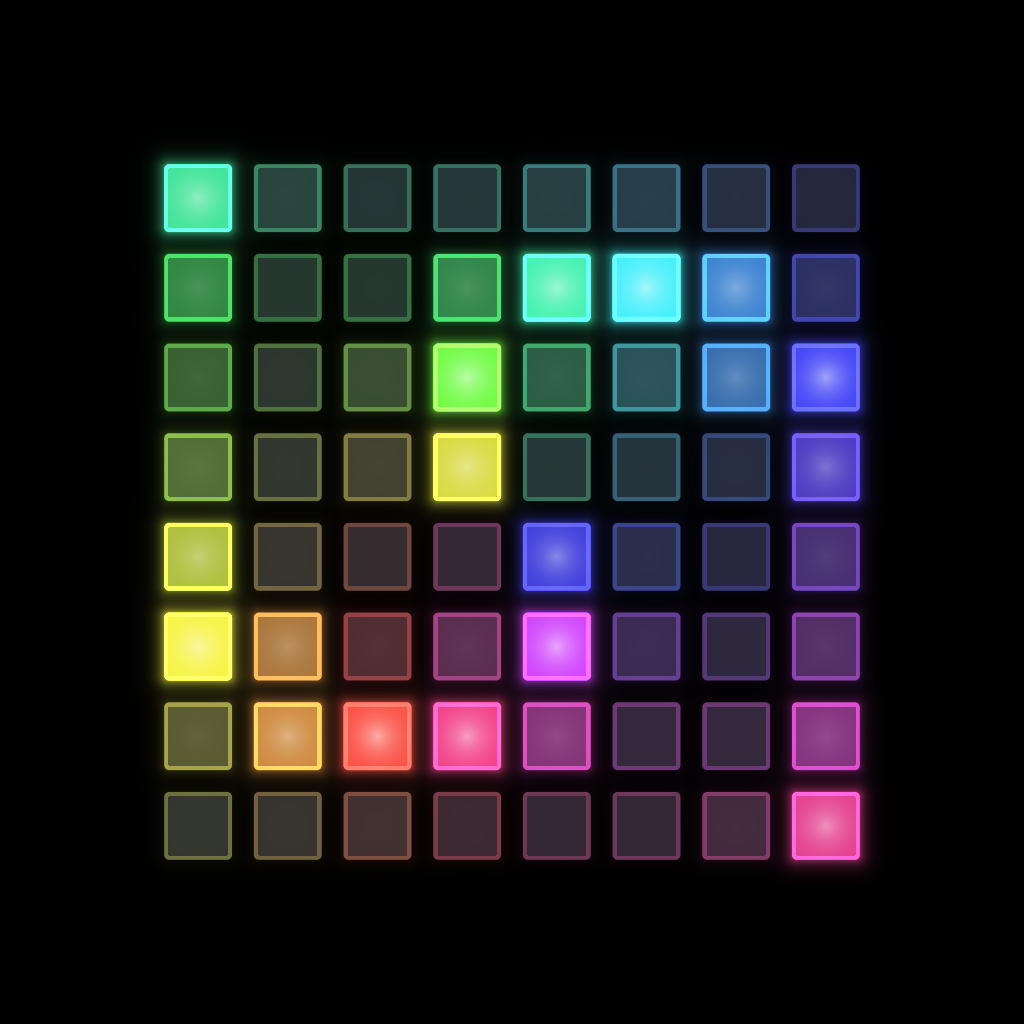
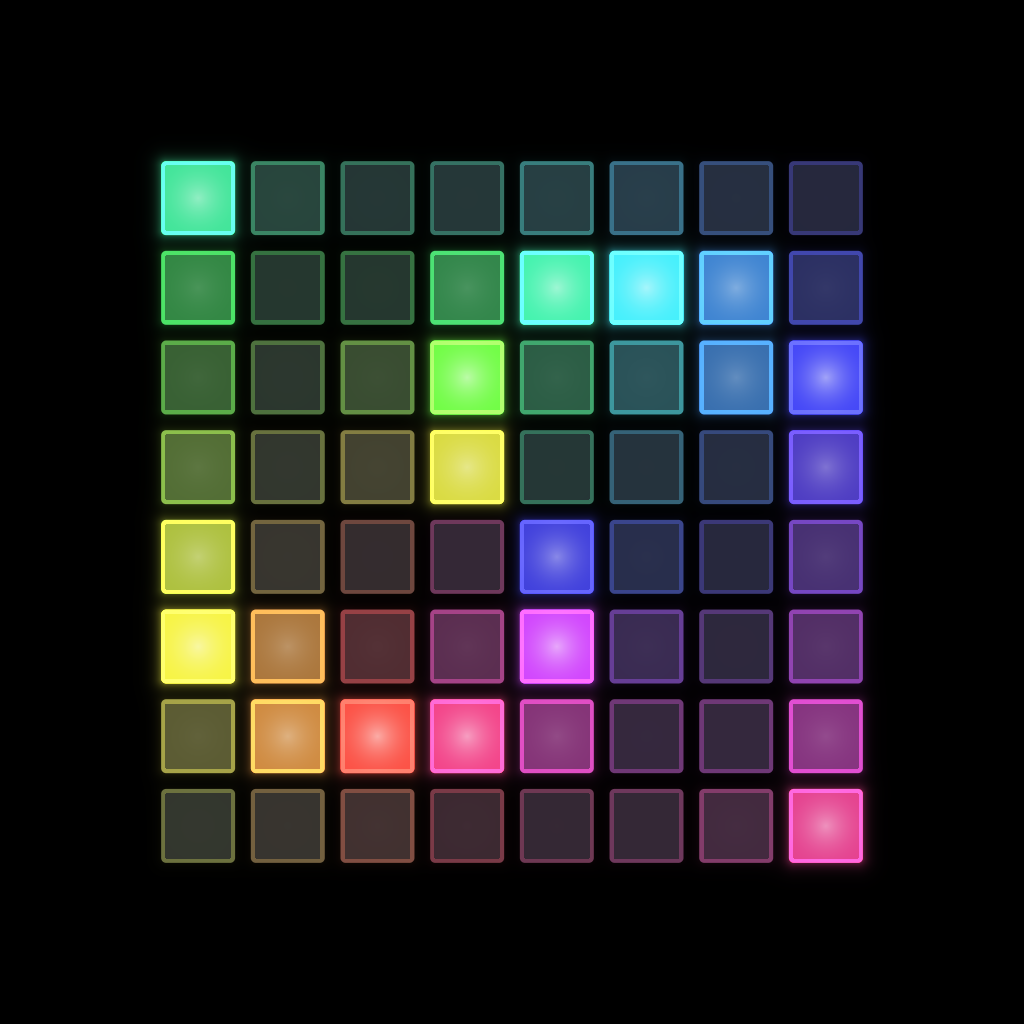
Same device-like pad spacing on the page and the card
Astra, 2026-11-03: the page looked too far apart and the card too close.
Each pad is now 96 of its 118 cell everywhere (a gap of about a fifth of
a pad, like the APC64), with less glow spilling into the gaps so small
sizes keep clean gaps. Card ?v=7.

Changed region(s): [[0.1562, 0.1562, 0.8438, 0.8438]]

diff --git a/public/pad-art-20261102.js b/public/pad-art-20261102.js
@@ -160,14 +160,15 @@ function boxDistance(px, py, half, radius) {
 }
 
 // Draws one frame into `out` (RGBA, size×size×4). Everything scales with size, so 160, 448 and 1024 look alike.
+// Each pad is 96 of its 118 cell, a gap of about a fifth of a pad like the APC64, at every size (Astra, 2026-11-03).
 // `fill` is how much of the square the grid takes: the page shrinks it with CSS, the card and icon draw it at
 // CARD_FILL so it sits smaller in Discord's square (Astra, 2026-11-03).
 export const CARD_FILL = 0.76;
 export function drawPads(out, size, t, fill = 1) {
   const { bright, color } = padState(t);
   const unit = size / 1024 * fill;
-  const margin = (size - 944 * unit) / 2, cell = 118 * unit, half = 44 * unit, radius = 6 * unit;
-  const glowFall = 9 * unit, rim = 5 * unit;
+  const margin = (size - 944 * unit) / 2, cell = 118 * unit, half = 48 * unit, radius = 6 * unit;
+  const glowFall = 7 * unit, rim = 5 * unit;
   for (let y = 0; y < size; y++) {
     for (let x = 0; x < size; x++) {
       let r0 = BG[0], g0 = BG[1], b0 = BG[2];
@@ -182,7 +183,7 @@ export function drawPads(out, size, t, fill = 1) {
           if (b < 0.02) continue;
           const d = boxDistance(fx - (margin + (c + 0.5) * cell), fy - (margin + (r + 0.5) * cell), half, radius);
           if (d <= 0) continue;
-          const glow = b * 0.6 * Math.exp(-d / glowFall), hue = color[r][c];
+          const glow = b * 0.42 * Math.exp(-d / glowFall), hue = color[r][c];
           r0 += hue[0] * glow; g0 += hue[1] * glow; b0 += hue[2] * glow;
         }
       }

diff --git a/src/card-20261102.js b/src/card-20261102.js
@@ -6,7 +6,7 @@ export const BUILT_IN_CLIENT_ID = '1567036812768186491';
 
 // Card art: loaded by Discord straight from the public repo, so nobody has to upload it in the Developer Portal.
 // Bump ?v= whenever the card art changes so Discord fetches the new image instead of a cached one.
-export const PAD_GRID_URL = 'https://raw.githubusercontent.com/findastra/ableton-live-discord-presence/main/public/pad-grid-card-20261102.gif?v=6';
+export const PAD_GRID_URL = 'https://raw.githubusercontent.com/findastra/ableton-live-discord-presence/main/public/pad-grid-card-20261102.gif?v=7';
 
 // Drum gear found by its Windows device name. The APC64 is Astra's pad controller.
 export const DEFAULT_DRUM_DEVICES = ['APC64'];
